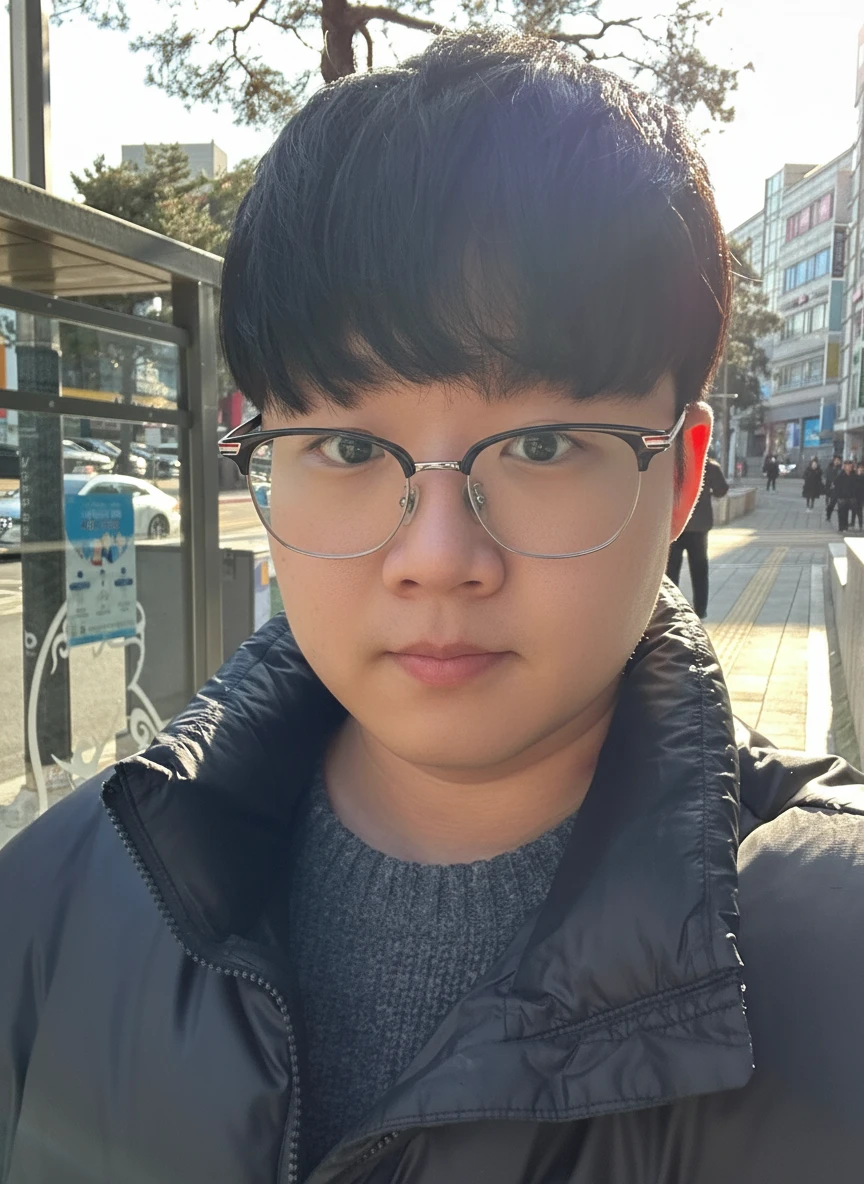
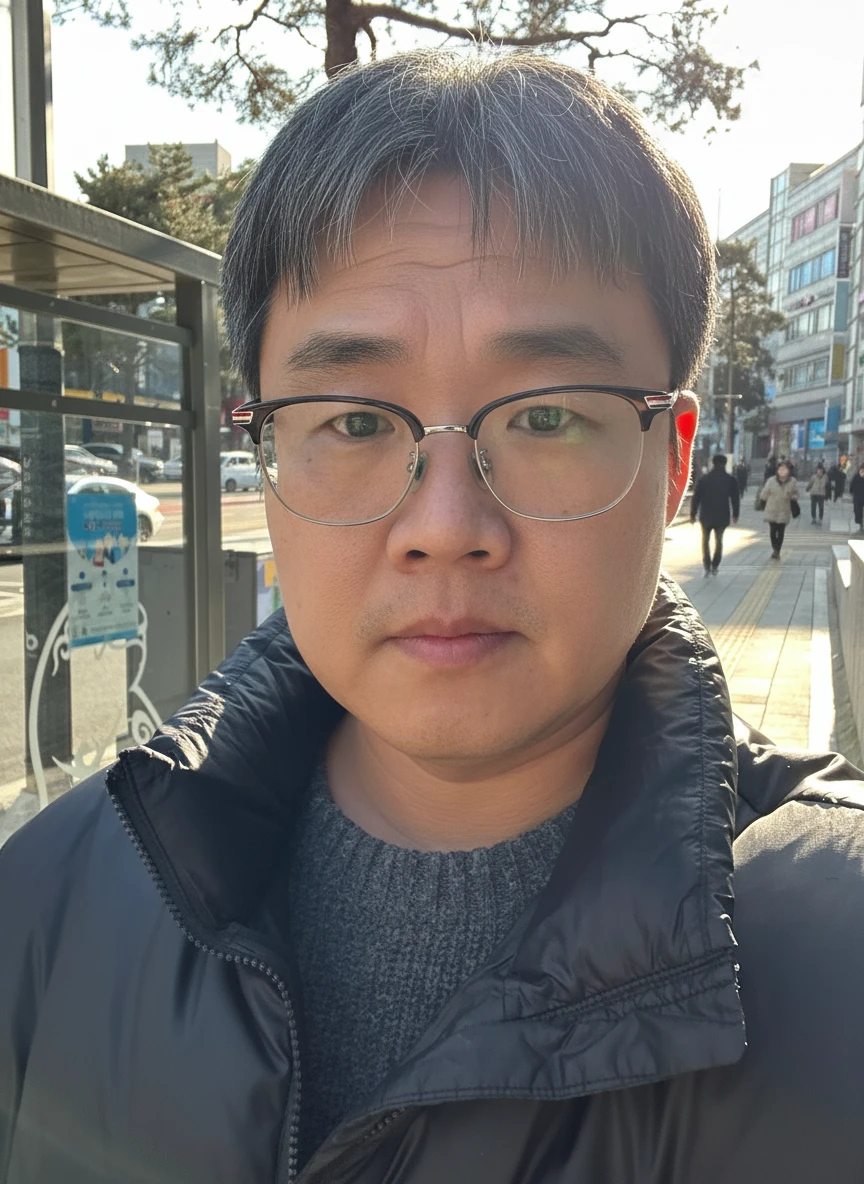
fix: 프롬프트 수정

diff --git a/face_age_gemini.py b/face_age_gemini.py
@@ -76,15 +76,23 @@ class GeminiAgeTransformer:
             # 프롬프트 생성
             prompt = f"""이 사진 속 인물의 얼굴을 {target_age_description} 변환해주세요.
 
-            요구사항:
-            1. 인물의 정체성과 기본적인 얼굴 특징은 유지해주세요
-            2. 피부를 더 매끄럽고 젊게 만들어주세요
-            3. 주름이나 잔주름을 줄여주세요
-            4. 자연스럽고 현실적인 결과를 만들어주세요
-            5. 얼굴 형태와 표정은 최대한 원본과 유사하게 유지해주세요
-            6. 배경은 원본과 동일하게 유지해주세요
+            ⚠ 중요: 반드시 원본 인물의 얼굴 형태, 눈 모양, 코 형태, 입술 모양, 얼굴 윤곽을 정확히 유지해야 합니다.
+            다른 사람처럼 보이면 안 됩니다. 동일 인물이 나이만 든 것처럼 보여야 합니다.
 
-            변환된 이미지만 생성해주세요."""
+            요구사항:
+            1. ✅ 얼굴 구조(뼈대), 눈·코·입 위치와 크기, 얼굴형, 눈썹 모양을 원본과 100% 동일하게 유지
+            2. ✅ 표정과 시선 방향도 원본과 동일하게 유지
+            3. 이마, 눈가, 입가에 깊은 주름 추가 (crow's feet, forehead lines, nasolabial folds)
+            4. 피부 탄력을 줄이고 약간 처진 느낌 추가 (sagging skin, jowls)
+            5. 피부 톤을 더 어둡고 칙칙하게 (age spots, uneven skin tone)
+            6. 눈밑에 다크서클과 눈꺼풀 처짐 추가
+            7. 머리카락에 흰머리 추가하거나 머리숱 감소 (gray/white hair, hair thinning)
+            8. 목 주름과 약간의 목 처짐 추가 (neck wrinkles)
+            9. 피부 질감을 거칠고 윤기 없게 만들기
+            10. ✅ 배경은 원본과 완전히 동일하게 유지
+
+            자연스럽지만 명확하게 나이 들어 보이는 이미지를 생성해주세요.
+            단, 얼굴의 핵심 특징(identity)은 절대 변경하지 마세요."""
 
             print(f"[Generate] 이미지 생성 중...")
             print(f"[Prompt] {prompt}")
@@ -197,7 +205,7 @@ if __name__ == "__main__":
     print("=" * 50)
 
     # 나이 변환 실행
-    target_age_description = "20살처럼 젊고 동안으로"
+    target_age_description = "50대처럼 성숙하고 나이 들어 보이게"
     image_data = transformer.transform_age(input_image_path, target_age_description)
 
     if image_data:
